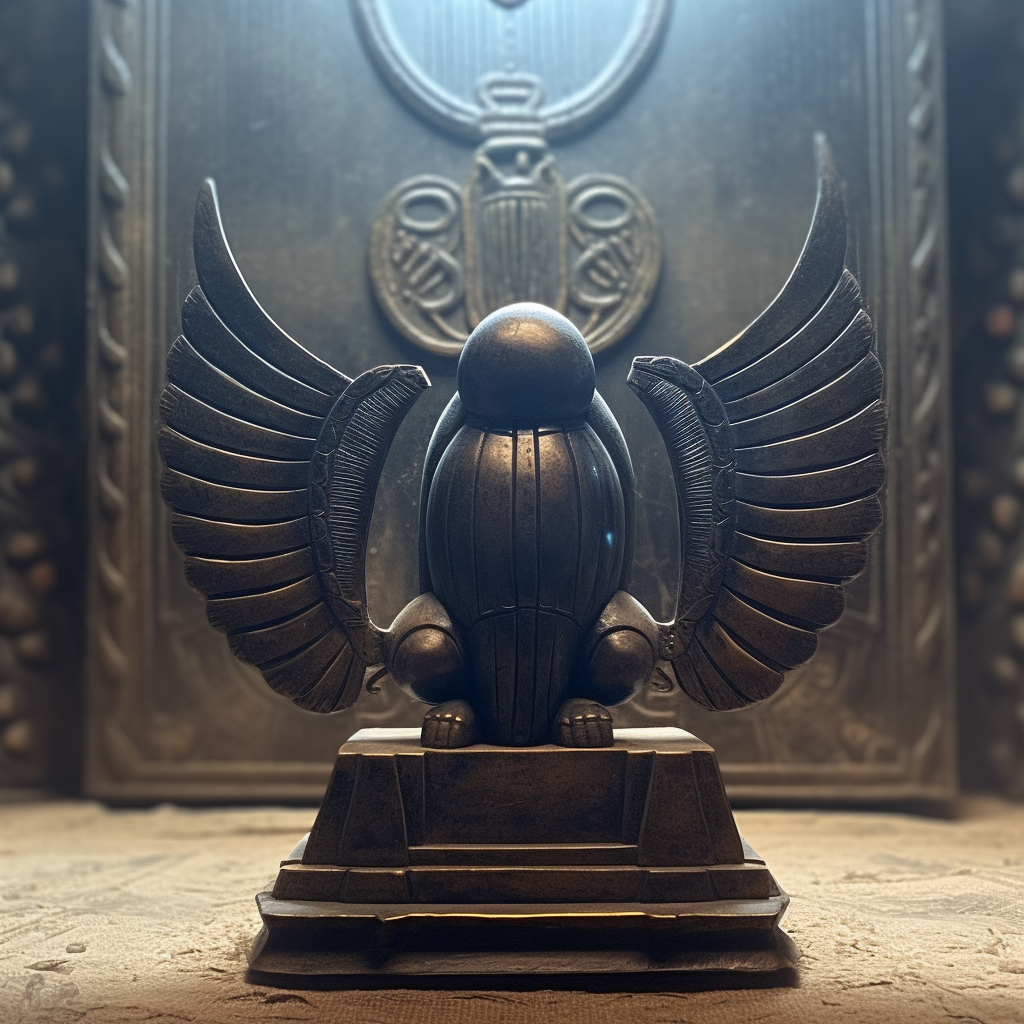
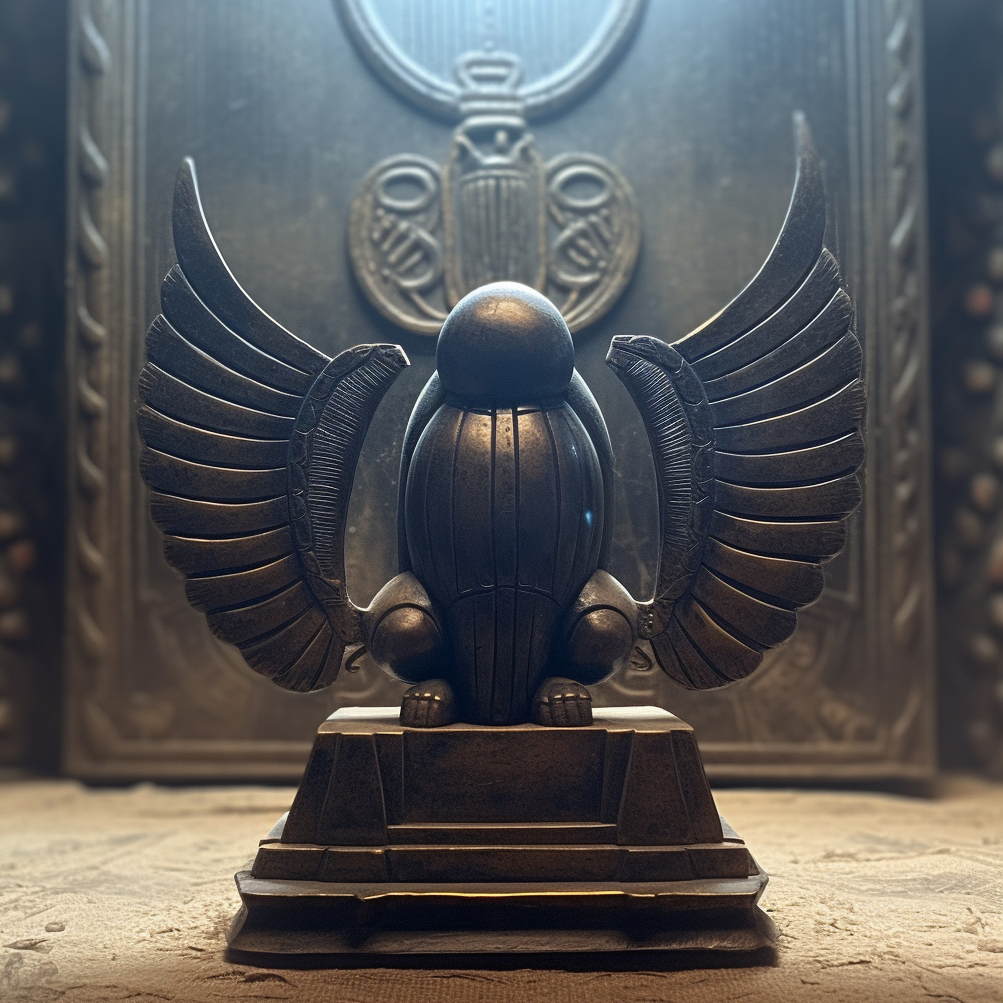
Sanctuary image

diff --git a/src/services/assets.tsx b/src/services/assets.tsx
@@ -1,11 +1,12 @@
 import Midjourney from '../assets/backgrounds/Midjourney_2.jpg';
 import Ticket from '../assets/ticket_simple.png';
+import Elder from '../assets/backgrounds/Elder.png';
 import Elder_5 from '../assets/backgrounds/Elder_5.png';
 import Frame_2 from '../assets/frame_2.png';
 import Frame_3 from '../assets/frame_3.png';
 import Praying from '../assets/images/energy.jpg';
 
-export const getLayoutBackground = () => Elder_5;
+export const getLayoutBackground = () => Elder;
 export const getFrame = () => Frame_3;
 export const getFaucetImage = () => Praying;
 export const getFullTicket = () => Ticket;

diff --git a/src/components/LoadingScreen.tsx b/src/components/LoadingScreen.tsx
@@ -42,7 +42,7 @@ function LoadingScreen({ setIsLoaded }) {
 
     return (
         <Flex position="fixed" top={0} right={0} bottom={0} left={0} zIndex={5} pointerEvents="none" userSelect="none">
-            {isAfter(new Date(), START_OF_CONTEST) ? (
+            {!isAfter(new Date(), START_OF_CONTEST) ? (
                 <Flex>
                     <Text>Waiting for the contest to start</Text>
                 </Flex>
